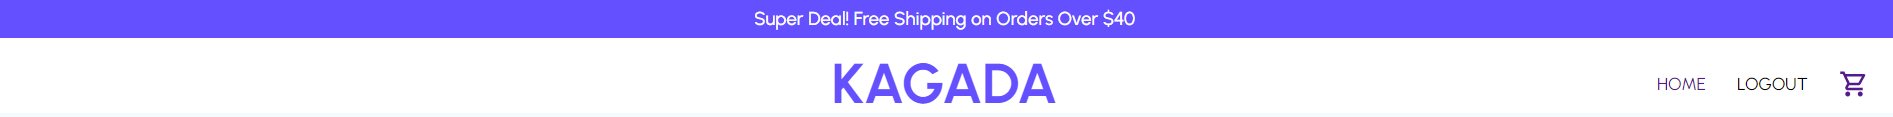
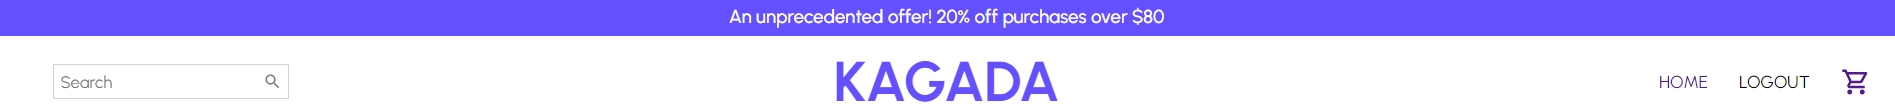
code fixes

diff --git a/src/components/Navbar.js b/src/components/Navbar.js
@@ -1,5 +1,5 @@
 import { Badge } from "@material-ui/core";
-import { ShoppingCartOutlined } from "@material-ui/icons";//Search
+import { ShoppingCartOutlined,Search } from "@material-ui/icons";
 import React from "react";
 import styled from "styled-components";
 import { mobile } from "../responsive";
@@ -42,18 +42,18 @@ const Left = styled.div`
 // `;
 
 //SearchContainer
-// const SearchContainer = styled.div`
-//   border: 0.5px solid lightgray;
-//   display: flex;
-//   align-items: center;
-//   margin-left: 25px;
-//   padding: 5px;
-// `;
+const SearchContainer = styled.div`
+  border: 0.5px solid lightgray;
+  display: flex;
+  align-items: center;
+  margin-left: 25px;
+  padding: 5px;
+`;
 
-// const Input = styled.input`
-//   border: none;
-//   ${mobile({ width: "35px" })}
-// `;
+const Input = styled.input`
+  border: none;
+  ${mobile({ width: "25px",fontSize:"8px"})}
+`;
 
 
 //Navbar Center
@@ -61,14 +61,14 @@ const Left = styled.div`
 const Center = styled.div`
   flex: 1;
   text-align: center;
-  ${mobile({ marginLeft: "2px" })}
+  ${mobile({ marginLeft: "1px" })}
 `;
 
 const Logo = styled.h1`
   font-weight: bold;
     color: #6550FF;
    font-size:45px;
-  ${mobile({ fontSize: "24px" })}
+  ${mobile({ fontSize: "18px" })}
 `;
 
 //Navbar Right
@@ -98,7 +98,6 @@ const Navbar = () => {
   const user = useSelector((state) => state.user.currentUser)
 
   const navigate = useNavigate()
-  console.log(user, "user")
   const handleClick = (e) => {
     e.preventDefault();
     logout(dispatch);
@@ -111,10 +110,10 @@ const Navbar = () => {
       <Wrapper>
         <Left>
           {/* <Language>EN</Language> */}
-          {/* <SearchContainer> */}
-          {/* <Input placeholder="Search" /> */}
-          {/* <Search style={{ color: "gray", fontSize: 16, "margin-left": 5}} /> */}
-          {/* </SearchContainer>  */}
+          <SearchContainer>
+          <Input placeholder="Search" />
+          <Search style={{ color: "gray", fontSize: 15, "margin-left": 5}} />
+          </SearchContainer> 
         </Left>
         <Center>
           <Logo>KAGADA</Logo>

diff --git a/src/pages/Product.js b/src/pages/Product.js
@@ -30,6 +30,7 @@ const Image = styled.img`
   width: 100%;
   height: 70vh;
   object-fit: contain;
+  ${mobile({ height: "40vh"})}
 `;
 
 const InfoContainer = styled.div`
@@ -56,7 +57,7 @@ const FilterContainer = styled.div`
   margin: 30px 0px;
   display: flex;
   justify-content: space-between;
-  ${mobile({ width: "100%" })}
+  ${mobile({ width: "50%" })}
 `;
 
 const Filter = styled.div`
@@ -81,6 +82,7 @@ const FilterColor = styled.div`
 const FilterSize = styled.select`
   margin-left: 10px;
   padding: 5px;
+  ${mobile({ margin: "7px 15px 5px 10px" })}
 `;
 
 const FilterSizeOption = styled.option``;

diff --git a/src/pages/Register.js b/src/pages/Register.js
@@ -35,7 +35,7 @@ const Wrapper = styled.div`
 const Title = styled.h1`
   font-size: 24px;
   font-weight: 400;
-  ${mobile({ margin: "8px 10px 0px 0px"})}
+  ${mobile({ margin: "5px 0px 5px 21px",fontSize: "20px" })}
 `;
 
 const Form = styled.form`
@@ -48,12 +48,13 @@ const Input = styled.input`
   min-width: 40%;
   margin: 20px 10px 0px 0px;
   padding: 10px;
-  ${mobile({ margin: "8px 10px 0px 0px"})}
+  ${mobile({ margin: "5px 0px 5px 0px", minWidth: "60%" })}
 `;
 
 const Agreement = styled.span`
   font-size: 12px;
   margin: 20px 0px;
+  
 `;
 
 const Error = styled.span`

diff --git a/src/redux/cartRedux.js b/src/redux/cartRedux.js
@@ -31,7 +31,6 @@ const cartSlice = createSlice({
     //Reducer deleteProduct
     deleteProduct: (state, action) => {
       state.quantity -= 1;
-      console.log(state.products, action)
       state.products = state.products.filter((item) => item._id !== action.payload);
 
       state.total = state.products.reduce(
@@ -43,7 +42,6 @@ const cartSlice = createSlice({
     //Reducer resetCart
     resetCart: (state, action) => {
       state.quantity = 0;
-      console.log(state.products, action)
       state.total = 0;
       state.products = [];
     },

diff --git a/src/pages/Login.js b/src/pages/Login.js
@@ -29,12 +29,13 @@ const Wrapper = styled.div`
   width: 25%;
   padding: 20px;
   background-color: white;
-  ${mobile({ width: "75%", backgroundSize: "50%" })}
+  ${mobile({ width: "75%"})}
 `;
 
 const Title = styled.h1`
   font-size: 24px;
   font-weight: 400;
+  ${mobile({ margin: "2px 0px 3px 8px" })}
 `;
 
 const Form = styled.form`
@@ -47,6 +48,7 @@ const Input = styled.input`
   min-width: 40%;
   margin: 10px 0;
   padding: 10px;
+  ${mobile({ margin: "5px 0px 5px 0px" })}
 `;
 
 const Button = styled.button`

diff --git a/src/components/Announcement.js b/src/components/Announcement.js
@@ -12,7 +12,7 @@ const Container = styled.div`
 `;
 
 const Announcement = () => {
-  return <Container>Super Deal! Free Shipping on Orders Over $40</Container>;
+  return <Container>An unprecedented offer! 20% off purchases over $80</Container>;
 };
 
 export default Announcement;

diff --git a/src/pages/Cart.js b/src/pages/Cart.js
@@ -179,7 +179,6 @@ const Cart = () => {
   const navigate = useNavigate()
 
   const onToken = (token) => {
-    console.log("onToken")
     setStripeToken(token);
     dispatch(resetCart())
   };

diff --git a/src/redux/apiCalls.js b/src/redux/apiCalls.js
@@ -31,7 +31,6 @@ export const login = async (dispatch, user) => {
 //Logout
 
 export const logout = async (dispatch, user) => {
-  console.log(222)
   dispatch(logoutStart());
 };
 

diff --git a/public/index.html b/public/index.html
@@ -13,6 +13,8 @@
   <style>
     * {
       margin: 0;
+      box-sizing: border-box;
+	    padding: 0;
       font-family: 'Urbanist', sans-serif;
     }
   </style>
